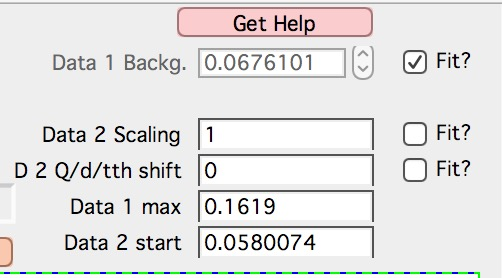
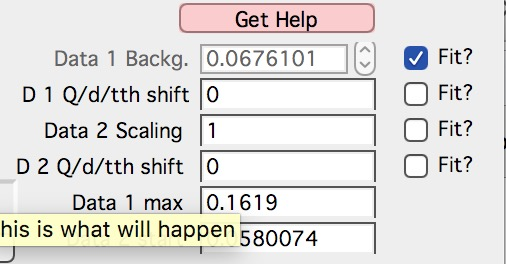
Minor fixes for prior submit
Fixed image, few spelling errors.

diff --git a/docs/source/Irena/DataManipulation.rst b/docs/source/Irena/DataManipulation.rst
@@ -9,7 +9,7 @@ List of Tools
 ----------------
 
 1.  :ref:`Data Manipulation 1 - one or two data sets <data_manipulation_1>`
-2.  :ref:`Data Manipualtion 2 - many data sets <data_manipulation_2>`
+2.  :ref:`Data Manipulation 2 - many data sets <data_manipulation_2>`
 3.  :ref:`Data Merge - two data segments <data_merge>`
 
 Data manipulation I
@@ -266,11 +266,11 @@ Post processing enables you to further modify data after they were processed thr
 Data merging
 ------------
 
-This tool is used to merge to segments of data covering overlapping q, two-theta, or d ranges. The tool can handle SAXS as well as WAXS data. This is common situation for 9ID USAXS/SAXS/WAXS instrument, which collects data with three different geometries sequentially. Each data set for the same sample is reduced individually and then user has three individual segments of data, which can be combined together to create one new data set covering all of the q range.
+This tool is used to merge to segments of data covering overlapping q, two-theta (tth), or d ranges. The tool can handle SAXS as well as WAXS data. This is common situation for 9ID USAXS/SAXS/WAXS instrument, which collects data with three different geometries sequentially. Each data set for the same sample is reduced individually and then user has three individual segments of data, which can be combined together to create one new data set covering all of the q range.
 
-It should be pointed out, that this is generally **BAD IDEA** . Data from segments collected at different distances or using different detectors will invariably have different resolutions, uncertainties, etc. Better data analysis software should allow to analyze data consisting of multiple independent segments, where the differences in resolution and uncertainties calculations can be handled better. **You have been warned. Proceed at your own peril.**
+It should be pointed out, that this is generally **BAD IDEA**. Data from segments collected at different distances or using different detectors will invariably have different resolutions, uncertainties, etc. Better data analysis software (e.g., Irena Modeling package or GSAS-II) should allow to analyze data consisting of multiple independent segments, where the differences in resolution and uncertainties calculations can be handled better. **You have been warned. Proceed at your own peril.**
 
-This tool can help to merge two data sets at time. It is designed to efficiently scale second data set, subtract background from the first data set, and optionally q-shift any ONE of the two data sets - and merge the data together as easily and as efficiently as possible. It can do it manually by selecting each data set individually or sequentially, by selecting sets of data sets and processing all at once. It can also fit Data 1 set of data with function dependence (power law, power law with background or Porod with background) and use the fit results to create smooth version fo the data. This significantly improves fit between the two segments when Data 1 high-q area is very noisy.
+This tool can help to merge two data sets at time. It is designed to efficiently scale second data set, subtract background from the first data set, and optionally q/d/tth-shift any *ONE* of the two data sets - and merge the data together as easily and as efficiently as possible. It can do it manually by selecting each data set individually or sequentially, by selecting sets of data sets and processing all at once. It can also fit Data 1 set of data with function dependence (power law, power law with background or Porod with background) and use the fit results to create smooth version fo the data. This significantly improves fit between the two segments when Data 1 high-q area is very noisy.
 
 Please note, that the function of this tool is pretty limited. More functionality is available in the Data manipulation I and Data manipulation II. I do not plan to add other “missions” to this tool, use the other tools for anything, which is more advanced.
 
@@ -278,23 +278,25 @@ Please note, that the function of this tool is pretty limited. More functionalit
 
 Data requirements: To merge two data sets you need to have data of one of the two naming structures:
 
-USAXS data: Inside root:USAXS: folder, name of the folder represents the sample name and the data are named SMR\_Int/SMR\_Qvec/SMR\_Error or DSM\_Int/DSM\_Qvec/DSM\_Error. Optionally you can have SMR/DSM\_dQ which is Q resolution wave. These data are, if present, properly passed through the calculations.
+*USAXS data*: Inside root:USAXS: folder, name of the folder represents the sample name and the data are named SMR\_Int/SMR\_Qvec/SMR\_Error or DSM\_Int/DSM\_Qvec/DSM\_Error. Optionally you can have SMR/DSM\_dQ which is Q resolution wave. These data are, if present, properly passed through the calculations.
 
-QRS data: Folder name represents the sample name and inside this folder you have three or four waves: Q\_SampleName, R\_SampleName (Intensity), S\_SampleName (Intensity uncertainty), optionally W\_SampleName (Q resolution). You can also have data Irena & Nika consider QRS also : consisting of d\_SampleName, R\_SampleName (Intensity), S\_SampleName or t\_SampleName, R\_SampleName (Intensity), S\_SampleName. The difference is that wave starting with t contains (x-axis) expressed in two-theta (in degrees) and wave starting with d contains d-spacings. No other naming system is NOT supported at this time and if needed, will need to be added into the system (request it, justify and send examples…).
+*QRS data*: Folder name represents the sample name and inside this folder you have three or four waves: Q\_SampleName, R\_SampleName (Intensity), S\_SampleName (Intensity uncertainty), optionally W\_SampleName (Q resolution). You can also have data Irena & Nika consider QRS also : consisting of d\_SampleName, R\_SampleName (Intensity), S\_SampleName or t\_SampleName, R\_SampleName (Intensity), S\_SampleName. The difference is that wave starting with t contains (x-axis) expressed in two-theta (in degrees) and wave starting with d contains d-spacing (in Angstroms).
+
+No other naming system is supported at this time and if needed, it will need to be added into the system (request it, justify and send examples…).
 
 **What can be done**:
 
-*Optional Step - when "Merge method" is "Extrap. Data1 and Optimize"* : User can fit "First data set" end of data (high-q range for this set) with one of few functions. Code will then use the fitted parameters to replace the noisy fitted data with the smooth functional dependence. This helps with data which are noisy and where regular method of Optimizing overlap does not work too well...
+*Main Step*: User selects the overlapping range of Qs for the data. The data are trimmed at these Qs! Code has 4 parameters of merging, 0, 1, 2 or 3 can be optimized at the same time :
 
-*Main Step* :User selects the overlapping range of Qs for the data. The data are trimmed at these Qs! Code has 4 parameters of merging, up to 3 can be optimized at the same time :
+1.  Data 1 background - Data 1 = lower-q data, assumed to be the correctly (e.g., absolutely) calibrated, are expected to have potentially flat background at high-q.
+2.  Data 2 scaling - Data 2 = higher-q data, need to be scaled to Data 1 with scaling factor.
+3.  Data 1 or 2 q/d/tth-shift - Data 1 or 2 can have q (d or t) shifted if to compensate for any misalignment between the segments. Typically this means user or staff failed to properly calibrate the instrument and it is strongly suggested to fix the calibration and reduce the data again to fix this misfit.  Allowed q/d/t shift is limited to be at most ½ of the q value for the first point on the second segment. This may not work as well for d type data which are kind of unique case anyway.
 
-1.  Data 1 background - Data 1, low-q data, assumed to be the optionally absolutely calibrated, are assumed to have potentially flat background at high-q.
-2.  Data 2 scaling - Data 2, high-q data, need to be scaled to Data 1 with scaling factor.
-3.  Data 1 or 2 q-shift - Data 1 or 2 can have q (d or t) shifted if to compensate for any misalignment between the segments. Typically this means user or staff failed to properly calibrate the instrument and it is strongly suggested to fix the calibration and reduce the data again to fix this misfit.  Allowed q/d/t shift is limited to be at most ½ of the q value for the first point on the second segment. This may not work as well for d type data which are kind of unique case anyway.
+Each parameter can be individually selected for optimization - or if known, can be inserted manually in the field. Keep in mind, that it is user's job to set the value back to 0 or 1 if they decide not to use this parameter.
 
-Each parameter can be individually selected for optimization - or if known, can be inserted manually in the field. Keep in mind, that it is users job to set the value back to 0 or 1 if they decide not to use this parameter.
+These parameters are optimized using Igor Optimize function to minimize the misfit between the intensity points in the overlapping q/d/tth range.
 
-These parameters are optimized using Igor Optimize function to minimize the misfit between the intensity points in the overlapping q range.
+*Optional - when "Merge method" is "Extrap. Data1 and Optimize"*: User can fit "First data set" end of data (high-q range for this set) with one of few functions. Code will then use the fitted parameters to replace the noisy fitted data with the smooth functional dependence. This helps with data which are noisy and where regular method of Optimizing overlap does not work too well...
 
 Note, that Data manipulation I tool uses similar code. The Data manipulation tool I creates new folder/waves with names modified by adding **“\_comb**\ ” at their end. This tool adds **“\_mrg**\ ” at the end. User can change the term added to folder name in the lower right corner field on the panel.
 
@@ -302,7 +304,7 @@ Below is the GUI panel itself. ***Please NOTE : This tools is one large panel an
 
 .. image:: media/DataManipulation15.jpg
            :align: center
-           :width: 600px
+           :width: 750px
 
 
 The GUI is bit uncharacteristically one large panel with left part being Data selection and right side being processing and data view selection.
@@ -319,7 +321,7 @@ At the top are controls for Data 1 (low-q, calibrated data) and Data 2 (high-q, 
 
 **DSM/2D colim? - SMR colim? checkboxes** – specific selection for USAXS data. If Slit smeared data are used (SMR_Int etc), use SMR checkbox, if desmeared data are used (DSM_Int etc.) use DSM checkbox. Note, that his also inserts "_u" or "_270" in Folder match string for Second data set. This is helping USAXS users select proper data for merging.
 
-**Start folder** – select folder, where the data start. Pick the highest folder you can (do not leave on root:), some of the features require that the names in the listbox are single folder name only. Some features will work fine even when the names are full or partial path to data. But it also is likely unreadable anyway. So pick the highest folder you can.
+**Start folder** – select folder, where the data are located. Pick the highest folder you can (do not leave on root:), some of the features require that the names in the listbox are single folder name only. Some features will work fine even when the names are full or partial path to data. So pick the highest folder you can.
 
 **Folder match string (RegEx)** : Use this field to mask as well the data names as possible. Here are some suggestions:
 
@@ -403,14 +405,14 @@ Other checkbox/controls functions:
 
 **Overwrite existing data** checkbox – if selected the tool will overwrite any prior data in the location where it is directed to save the merged data. I suspect this is what most people will want. If NOT selected, the code will create new, unique, target folder each time and user can create potentially huge number of garbage containing folders with test data which are useless. Keep this in mind.
 
-**Here are values / checkboxes for optimization **
+**Here are values / checkboxes for optimization**
 
 .. image:: media/DataManipulation21.jpg
            :align: left
            :width: 280px
 
 
-The top 3 values show the values used for scaling/merging procedures. Note the space between the Data 1 Background and Data 2 scaling. If your Data 1 data are QRS data (NOT USAXS data) then there will be option to "D 1 Q/d/tth shift". This allows at that moment to shift Data 1 in Q/d/tth. Only one of the segments can be shifted via optimization. User can punch in numbers manually, but it is likely impossible to suggest at all!!!!
+The top 4 values show the values used for scaling/merging procedures. Note the space between the Data 1 Background and Data 2 scaling. If your Data 1 data are USAXS data the  option to "D 1 Q/d/tth shift" will NOT be available, USAXS calibration is guaranteed. "D 1 Q/d/tth shift" allows at to shift Data 1 in Q/d/tth, "D 2 Q/d/tth shift" can shift Data 2. Only one of the data segments can be shifted via optimization. User can punch in numbers manually, but it is likely impossible to suggest at all!!!!
 
  User can either check the "Fit?" checkbox next to them and have them Optimized each time or uncheck it and input proper value - if known. In the case above the Background and Scaling are fitted, Q shift is set to 0. This should be default use case.
 
